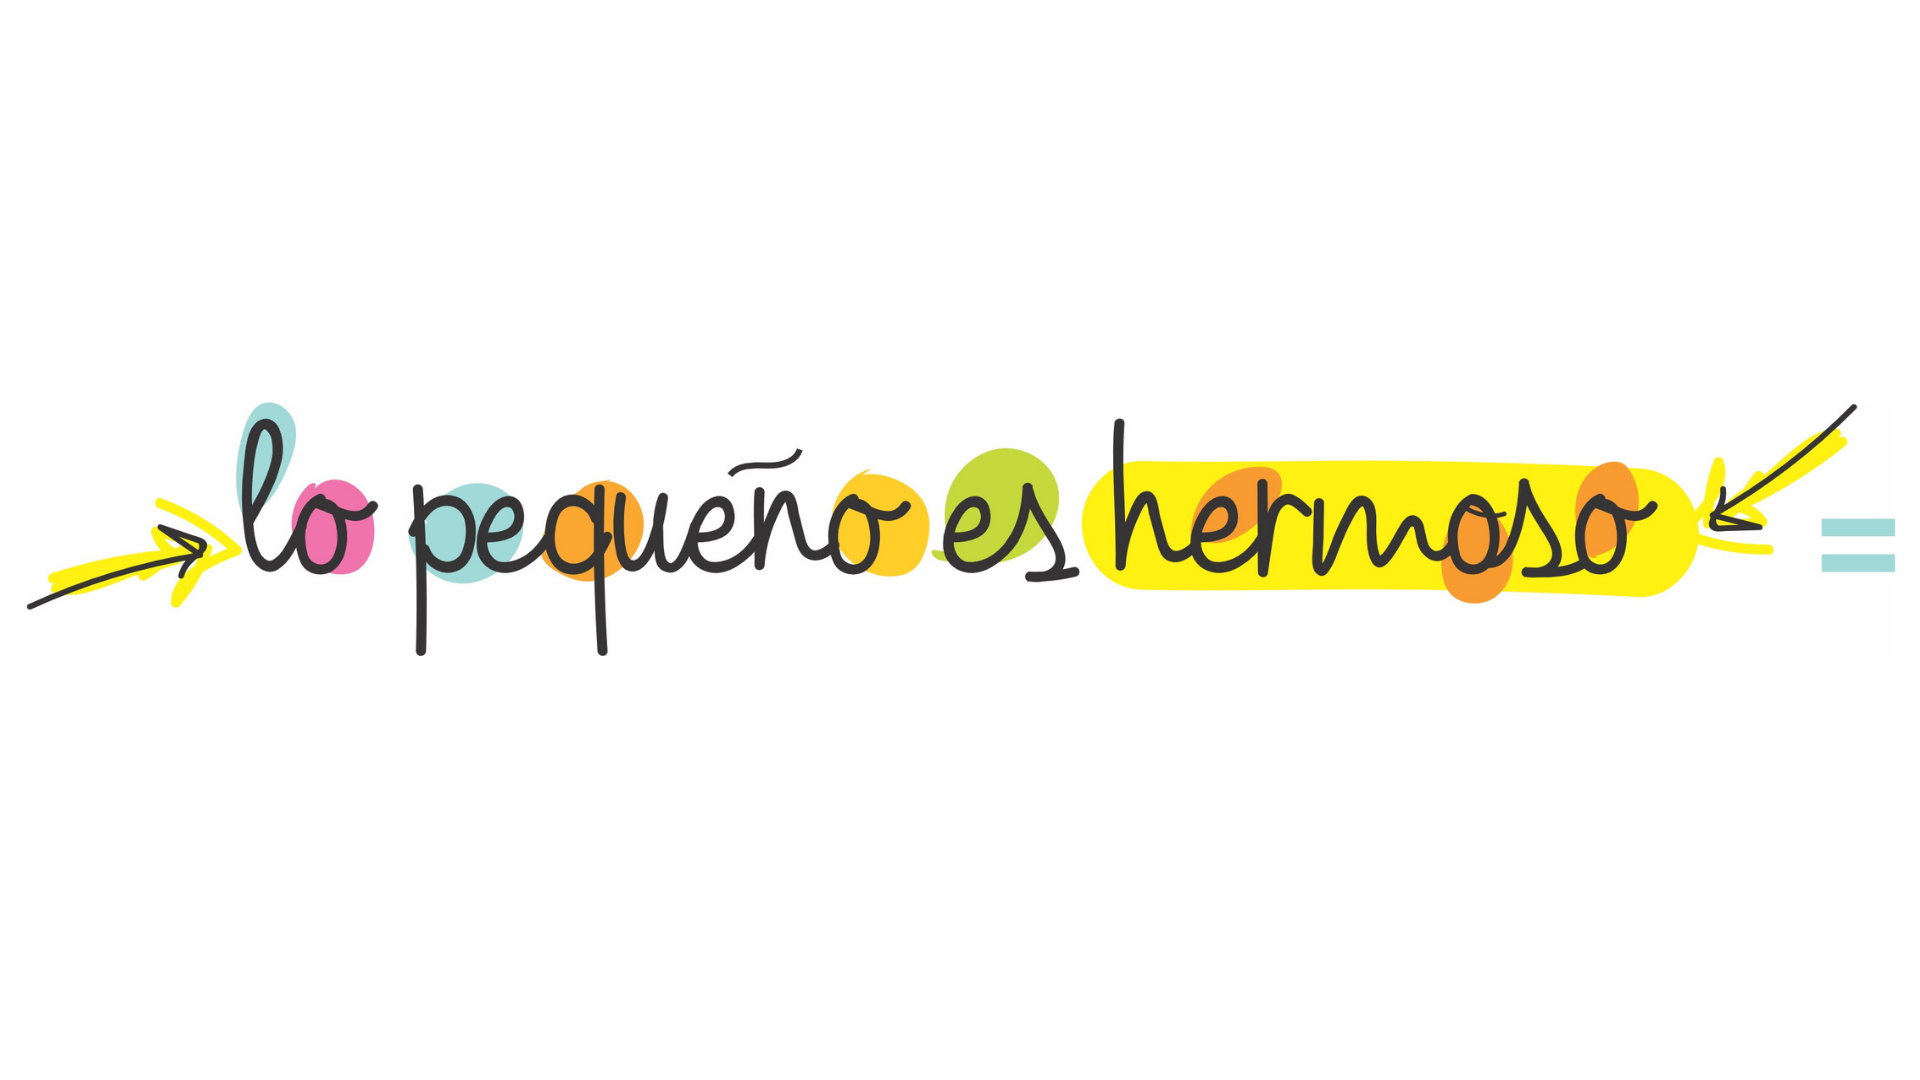
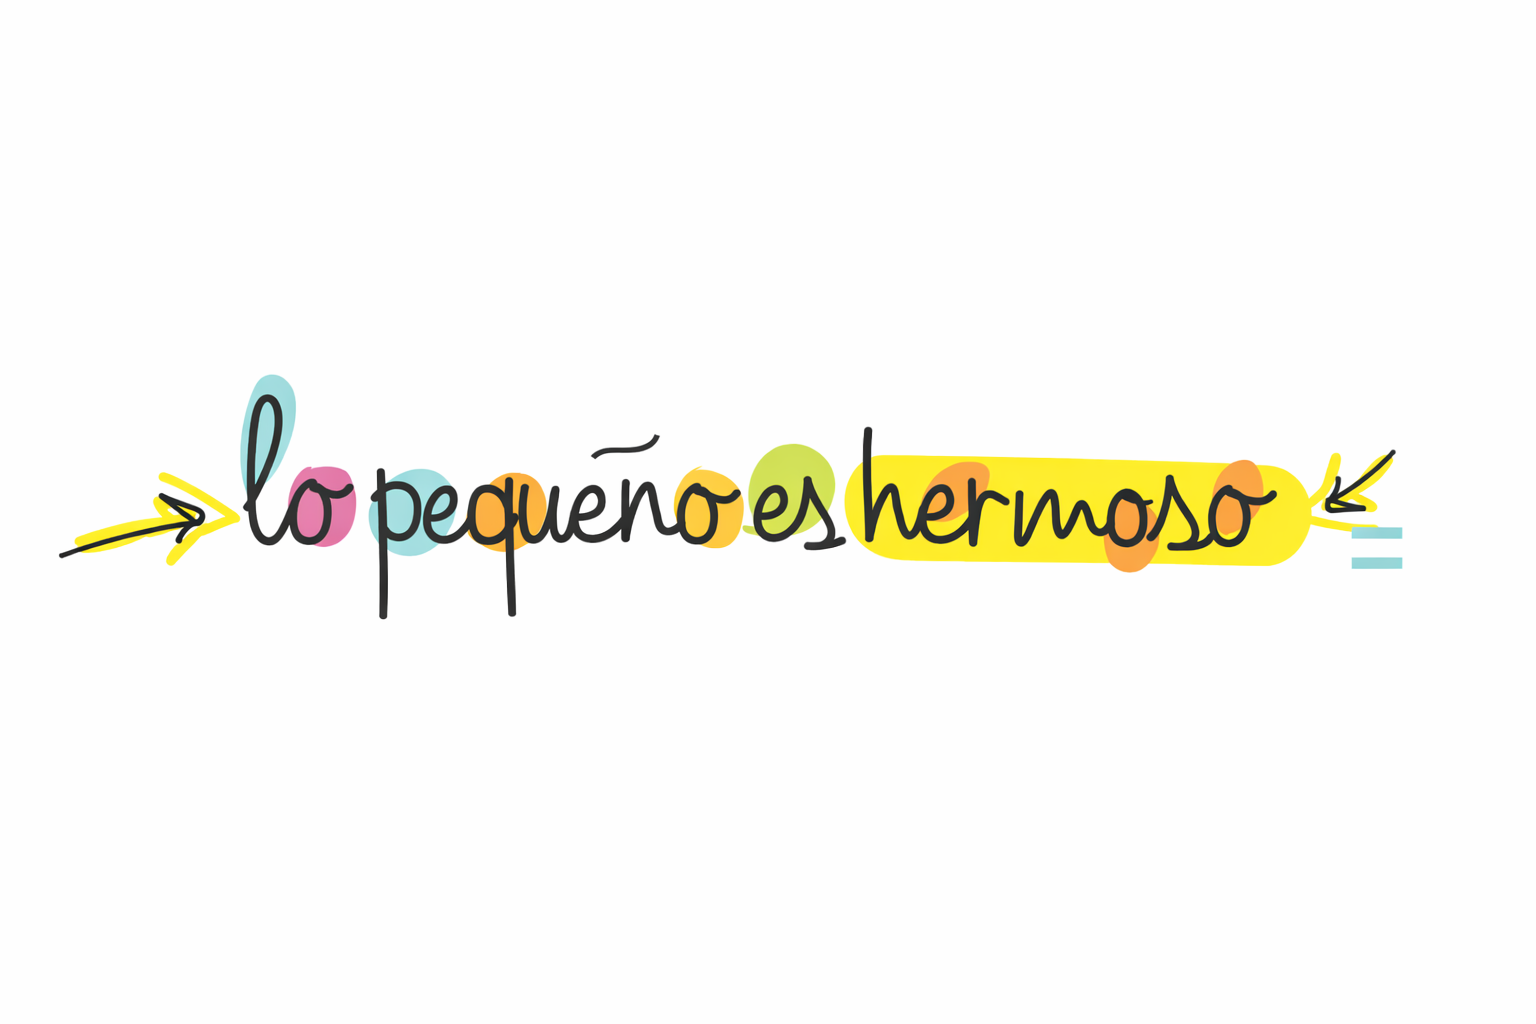
Add files via upload

Changed region(s): [[0.0, 0.3438, 1.0, 0.625]]

diff --git a/index.html b/index.html
@@ -511,11 +511,10 @@ margin-top:2px;
 
 <div id="lph-splash" aria-hidden="true">
   <div class="lph-splash-card">
-    <img class="lph-logo" src="logo_lph.png" style="mix-blend-mode:multiply;" alt="Logo Lo pequeño es hermoso" onerror="this.style.display='none'">
-    <div class="lph-tagline"><strong>Lo pequeño es hermoso ✨</strong></div>
+    <img class="lph-logo" src="logo_lph.png" alt="Logo LPH">
+    <img class="lph-tagline-img" src="tagline_lph.png" alt="Lo pequeño es hermoso">
   </div>
 </div>
-
 <div class="barraSuperior">
 
 <img src="logo_lph.png" class="logoCatalogo" onclick="volverArriba()">
